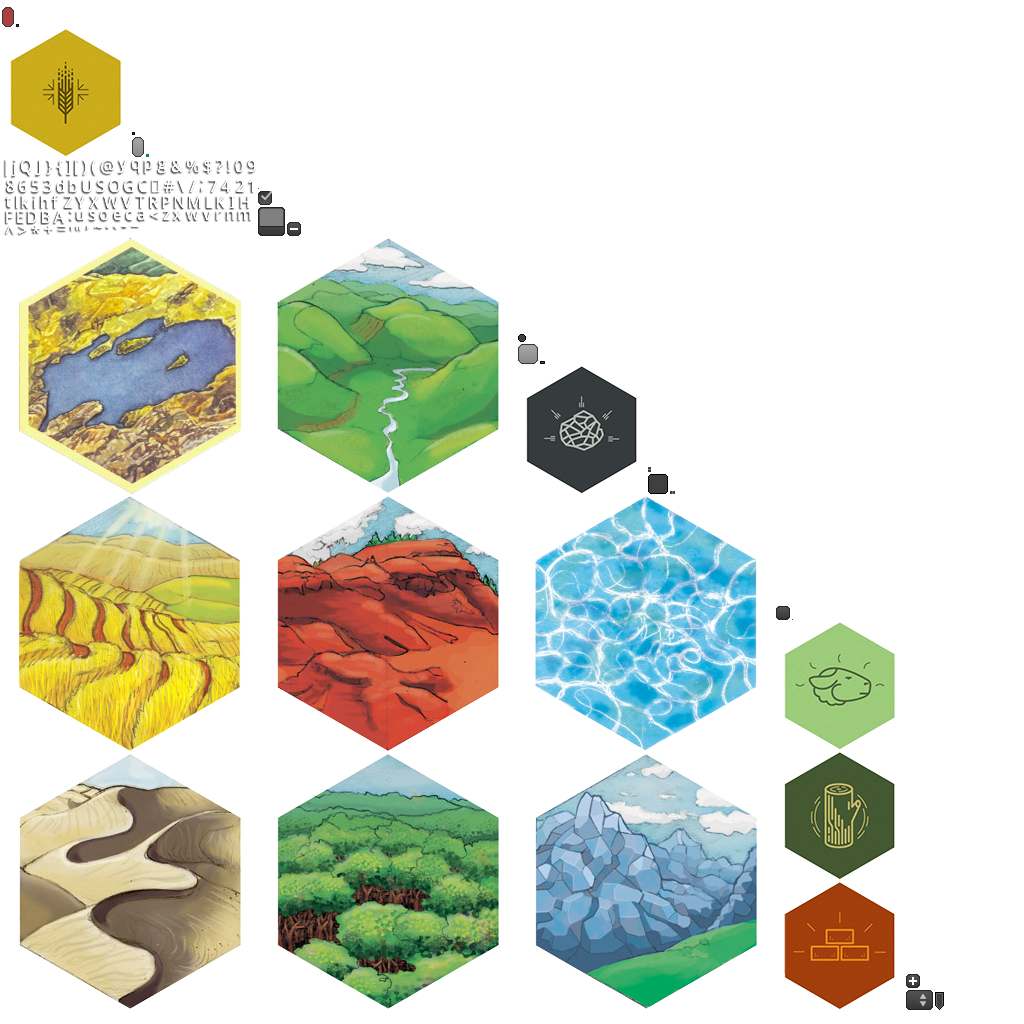
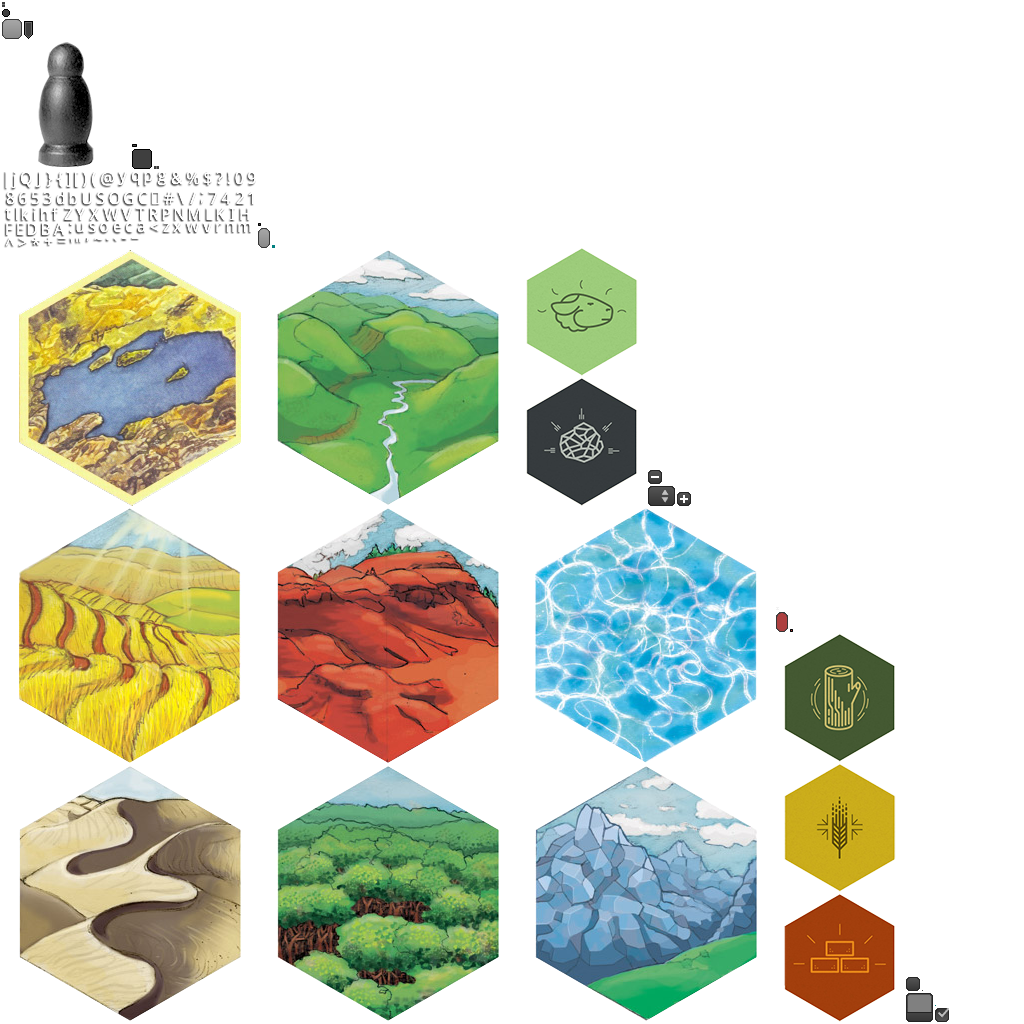
Add robber texture
- Cleanup SessionScreen (+comments)
- Add comments for the game phases

Changed region(s): [[0.0, 0.0, 0.9375, 1.0]]

diff --git a/core/src/com/mygdx/catan/session/SessionScreen.java b/core/src/com/mygdx/catan/session/SessionScreen.java
@@ -6,12 +6,9 @@ import com.badlogic.gdx.InputMultiplexer;
 import com.badlogic.gdx.Screen;
 import com.badlogic.gdx.graphics.Color;
 import com.badlogic.gdx.graphics.GL20;
-import com.badlogic.gdx.graphics.Pixmap;
-import com.badlogic.gdx.graphics.Texture;
 import com.badlogic.gdx.graphics.g2d.PolygonRegion;
 import com.badlogic.gdx.graphics.g2d.PolygonSprite;
 import com.badlogic.gdx.graphics.g2d.PolygonSpriteBatch;
-import com.badlogic.gdx.graphics.g2d.TextureRegion;
 import com.badlogic.gdx.scenes.scene2d.Actor;
 import com.badlogic.gdx.scenes.scene2d.Stage;
 import com.badlogic.gdx.scenes.scene2d.ui.Label;
@@ -24,7 +21,6 @@ import com.mygdx.catan.enums.*;
 import com.mygdx.catan.gameboard.EdgeUnit;
 import com.mygdx.catan.gameboard.Hex;
 import com.mygdx.catan.ui.TradeWindow;
-
 import org.apache.commons.lang3.tuple.MutablePair;
 import org.apache.commons.lang3.tuple.Pair;
 
@@ -59,61 +55,39 @@ public class SessionScreen implements Screen {
     private final int OFFY = LENGTH + LENGTH / 2;                             // offset on the y axis
     private final int PIECEBASE = (int) (LENGTH * 0.4);
 
-    /**
-     * The batch onto which the game piece will be drawn
-     */
+    /** The batch onto which the game piece will be drawn */
     private PolygonSpriteBatch polyBatch; // To assign at the beginning
     private PolygonSpriteBatch highlightBatch; // will have blending enabled
-
-    private Texture aRobberTextureSolid;
 
     private SessionController aSessionController;
 
     private Stage aSessionStage;
 
-    /**
-     * The list of polygons representing the board hexes
-     */
+    /** The list of polygons representing the board hexes */
     private List<PolygonSprite> boardHexes;
 
-    /**
-     * The list of polygons representing the board harbours
-     */
+    /** The list of polygons representing the board harbours */
     private List<PolygonRegion> boardHarbours;
 
-    /**
-     * The List of villages currently on the board
-     */
+    /** The List of villages currently on the board */
     private List<PolygonRegion> villages;
 
-    /**
-     * The List of EdgeUnits currently on the board
-     */
+    /** The List of EdgeUnits currently on the board */
     private List<PolygonRegion> edgeUnits;
 
-    /**
-     * The List of valid building regions on the board
-     */
+    /** The List of valid building regions on the board */
     private List<PolygonRegion> highlightedPositions;
 
-    /**
-     * The Robber
-     */
-    private PolygonRegion robber;
+    /** The Robber */
+    private PolygonSprite robberSprite;
 
-    /**
-     * The origin of the the hex board
-     */
+    /** The origin of the the hex board */
     private MutablePair<Integer, Integer> boardOrigin;
 
-    /**
-     * The map of resource tables
-     */
+    /** The map of resource tables */
     private EnumMap<ResourceKind, Label> resourceLabelMap;
 
-    /**
-     * determines the current mode of the session screen
-     */
+    /** Determines the current mode of the session screen */
     private SessionScreenModes aMode;
     private boolean initializing;
 
@@ -184,6 +158,7 @@ public class SessionScreen implements Screen {
         polyBatch = new PolygonSpriteBatch();
         highlightBatch = new PolygonSpriteBatch();
         gamePieces = new GamePieces();
+        robberSprite = gamePieces.createRobber();
         initializing = false;
         setupBoardOrigin(Gdx.graphics.getWidth(), Gdx.graphics.getHeight());
 
@@ -356,7 +331,6 @@ public class SessionScreen implements Screen {
 
         updateAvailableGamePieces(5, 4, 15, 15);
 
-
         // creates the menu buttons
         buildSettlementButton = new TextButton("Build Settlement", CatanGame.skin);
         setupBuildVillageButton(buildSettlementButton, VillageKind.SETTLEMENT);
@@ -418,9 +392,6 @@ public class SessionScreen implements Screen {
         });
         menuTable.add(maritimeTradeButton);
 
-        //Creating the color filling for the robber piece
-        aRobberTextureSolid = setupTextureSolid(Color.valueOf("666666"));
-
         // sets center of board
         int offsetX, offsetY;
 
@@ -443,7 +414,7 @@ public class SessionScreen implements Screen {
         // places robber at initial robber position
         Hex robberPos = aSessionController.getRobberPosition();
         if (robberPos != null) {
-            updateRobberPosition(robberPos);
+            placeRobber(robberPos.getLeftCoordinate(), robberPos.getRightCoordinate());
         }
 
         // Create the Game Log table
@@ -538,7 +509,7 @@ public class SessionScreen implements Screen {
                             for (CoordinatePair j : aSessionController.getIntersectionsAndEdges()) {
                                 if (aSessionController.isAdjacent(i, j) && aSessionController.isOnLand(i, j)) {
 
-                                    Pair<CoordinatePair, CoordinatePair> edge = new MutablePair<CoordinatePair, CoordinatePair>(i, j);
+                                    Pair<CoordinatePair, CoordinatePair> edge = new MutablePair<>(i, j);
                                     validEdges.add(edge);
 
                                     for (EdgeUnit eu : aSessionController.getRoadsAndShips()) {
@@ -554,7 +525,7 @@ public class SessionScreen implements Screen {
                             for (CoordinatePair j : aSessionController.getIntersectionsAndEdges()) {
                                 if (aSessionController.isAdjacent(i, j) && !aSessionController.isOnLand(i, j)) {
 
-                                    Pair<CoordinatePair, CoordinatePair> edge = new MutablePair<CoordinatePair, CoordinatePair>(i, j);
+                                    Pair<CoordinatePair, CoordinatePair> edge = new MutablePair<>(i, j);
                                     validEdges.add(edge);
 
                                     for (EdgeUnit eu : aSessionController.getRoadsAndShips()) {
@@ -591,13 +562,6 @@ public class SessionScreen implements Screen {
                 }
             }
         });
-    }
-
-    private Texture setupTextureSolid(Color color) {
-        Pixmap pix = new Pixmap(1, 1, Pixmap.Format.RGBA8888);
-        pix.setColor(color); // DE is red, AD is green and BE is blue.
-        pix.fill();
-        return new Texture(pix);
     }
 
     private Table createResourceTable(ResourceKind type) {
@@ -645,7 +609,8 @@ public class SessionScreen implements Screen {
                 CatanGame.skin.getFont("default").draw(polyBatch, prob.toString(), xPos, yPos);
             }
         }
-        polyBatch.draw(robber, boardOrigin.getLeft(), boardOrigin.getRight());
+        robberSprite.draw(polyBatch);
+
         polyBatch.end();
 
         // display highlighted positions
@@ -704,17 +669,8 @@ public class SessionScreen implements Screen {
         float xPos = xCor * OFFX;
         float yPos = -yCor * OFFY;
 
-        PolygonRegion polyReg = new PolygonRegion(new TextureRegion(aRobberTextureSolid),
-                new float[]{
-                        (float) (xPos - BASE * 0.6), (float) (yPos - BASE * 0.5),     // Vertex 0            2
-                        (float) (xPos + BASE * 0.6), yPos - BASE / 2,                 // Vertex 1                   
-                        xPos, (float) (yPos + BASE * 0.8),                            // Vertex 2         0     1
-
-                }, new short[]{
-                0, 1, 2         // Sets up triangulation according to vertices above
-        });
-
-        robber = polyReg;
+        robberSprite.setPosition(boardOrigin.getLeft() + xPos - robberSprite.getWidth() / 2f,
+                boardOrigin.getRight() + yPos - robberSprite.getHeight() / 2f);
     }
 
     /**
@@ -748,7 +704,7 @@ public class SessionScreen implements Screen {
             float xPos = (xCor * BASE);
             float yPos = -1 * (yCor * LENGTH / 2);
 
-            if ((float) xV0 == xPos - PIECEBASE / 2.0 && (float) yV0 == yPos - PIECEBASE / 2.0) {
+            if (xV0 == xPos - PIECEBASE / 2.0 && yV0 == yPos - PIECEBASE / 2.0) {
                 return pr;
             }
         }
@@ -921,20 +877,23 @@ public class SessionScreen implements Screen {
                 initialize(false);
                 break;
             case TURN_FIRST_PHASE:
+                // Allow the player only to roll the dice (or play the Alchemist, in future updates)
                 buildSettlementButton.setDisabled(true);
                 buildCityButton.setDisabled(true);
                 buildRoadButton.setDisabled(true);
                 buildShipButton.setDisabled(true);
                 maritimeTradeButton.setDisabled(true);
+
                 rollDiceButton.setDisabled(false);
                 break;
-                
             case TURN_SECOND_PHASE:
+                // Prevent the player from rolling the dice
                 buildSettlementButton.setDisabled(false);
                 buildCityButton.setDisabled(false);
                 buildRoadButton.setDisabled(false);
                 buildShipButton.setDisabled(false);
                 maritimeTradeButton.setDisabled(false);
+
                 rollDiceButton.setDisabled(true);
                 break;
             case Completed:
@@ -985,15 +944,6 @@ public class SessionScreen implements Screen {
      */
     public void giveTurn() {
         aMode = SessionScreenModes.CHOOSEACTIONMODE;
-    }
-
-    /**
-     * moves the robber to given position
-     *
-     * @param position new hex that the robber will be moved to
-     */
-    public void updateRobberPosition(Hex position) {
-        placeRobber(position.getLeftCoordinate(), position.getRightCoordinate());
     }
 
     /**

diff --git a/core/src/com/mygdx/catan/session/SessionController.java b/core/src/com/mygdx/catan/session/SessionController.java
@@ -31,7 +31,6 @@ public class SessionController {
     private final Listener aSessionListener;
     private final CatanRandom random;
     private final TransactionManager aTransactionManager;
-    private SessionScreenModes aMode;
 
     private PlayerColor aPlayerColor;
 
@@ -159,15 +158,12 @@ public class SessionController {
         aSessionScreen.enablePhase(aSessionManager.getCurrentPhase());
         switch (aSessionManager.getCurrentPhase()) {
             case SETUP_PHASE_ONE:
-                // TODO Allow the player to roll the dice
                 aSessionScreen.addGameMessage("Please roll the dice");
                 break;
             case SETUP_PHASE_TWO_CLOCKWISE:
-                // TODO Allow the player to place one settlement and one road
                 aSessionScreen.addGameMessage("Please choose a position for your settlement,\n then choose a neighbouring edge for the position of your road");
                 break;
             case SETUP_PHASE_TWO_COUNTERCLOCKWISE:
-                // TODO Allow the player to place on city and one road. The player also receives some resources here
                 aSessionScreen.addGameMessage("Please choose a position for your city,\n then choose a neighbouring edge for the position of your road");
                 break;
             case TURN_FIRST_PHASE:
@@ -493,7 +489,7 @@ public class SessionController {
      *
      * @param owner          owner of edgeUnit
      * @param firstPosition  first end point of road or ship
-     * @param SecondPosition second end point of road or ship
+     * @param secondPosition second end point of road or ship
      * @param kind           edge unit kind: ROAD or SHIP
      * @param fromPeer       indicates whether the method was called from the owner of new settlement, or from a peer
      * @param init 			 indicated whether the method was called during initialization. If it was, player resource are not updated

diff --git a/core/src/com/mygdx/catan/session/GamePieces.java b/core/src/com/mygdx/catan/session/GamePieces.java
@@ -43,6 +43,8 @@ class GamePieces {
 
     private final PolygonRegion sea, desert, hills, forest, mountains, pasture, fields, gold;
 
+    private final PolygonRegion robber;
+
     private Texture aSeaTextureSolid;
     private Texture aHillsTextureSolid;
     private Texture aForestTextureSolid;
@@ -74,6 +76,7 @@ class GamePieces {
         aYellowTextureSolid = setupTextureSolid(Color.YELLOW);
 
         PolygonRegionLoader polygonRegionLoader = new PolygonRegionLoader();
+
         sea = polygonRegionLoader.load(CatanGame.skin.getRegion("sea"), Gdx.files.internal("hex.psh"));
         desert = polygonRegionLoader.load(CatanGame.skin.getRegion("desert"), Gdx.files.internal("hex.psh"));
         hills = polygonRegionLoader.load(CatanGame.skin.getRegion("hills"), Gdx.files.internal("hex.psh"));
@@ -82,6 +85,8 @@ class GamePieces {
         pasture = polygonRegionLoader.load(CatanGame.skin.getRegion("pasture"), Gdx.files.internal("hex.psh"));
         fields = polygonRegionLoader.load(CatanGame.skin.getRegion("fields"), Gdx.files.internal("hex.psh"));
         gold = polygonRegionLoader.load(CatanGame.skin.getRegion("gold"), Gdx.files.internal("hex.psh"));
+
+        robber = polygonRegionLoader.load(CatanGame.skin.getRegion("robber"), Gdx.files.internal("robber.psh"));
     }
 
     /**
@@ -129,6 +134,12 @@ class GamePieces {
         polygonSprite.setPosition(xOrigin + xPos - region.getRegion().getRegionWidth() / 2f,
                 yOrigin + yPos - region.getRegion().getRegionHeight() / 2f);
         polygonSprite.setScale(80f / region.getRegion().getRegionHeight());
+        return polygonSprite;
+    }
+
+    PolygonSprite createRobber() {
+        final PolygonSprite polygonSprite = new PolygonSprite(robber);
+        polygonSprite.setScale(0.4f);
         return polygonSprite;
     }
 

diff --git a/core/src/com/mygdx/catan/enums/GamePhase.java b/core/src/com/mygdx/catan/enums/GamePhase.java
@@ -6,9 +6,25 @@ public enum GamePhase {
      * to determine which one has the highest roll.
      */
     SETUP_PHASE_ONE,
+    /**
+     * The phase where every player, in clockwise order, places
+     * a settlement and a road.
+     */
     SETUP_PHASE_TWO_CLOCKWISE,
+    /**
+     * The phase where every player, in counter-clockwise order,
+     * places a city and a road.
+     */
     SETUP_PHASE_TWO_COUNTERCLOCKWISE,
+    /**
+     * The phase where a player must roll the dice to determine
+     * the resource production and the event.
+     */
     TURN_FIRST_PHASE,
+    /**
+     * The phase where a player can build, trade or end his/her
+     * turn.
+     */
     TURN_SECOND_PHASE,
     Completed
 }
